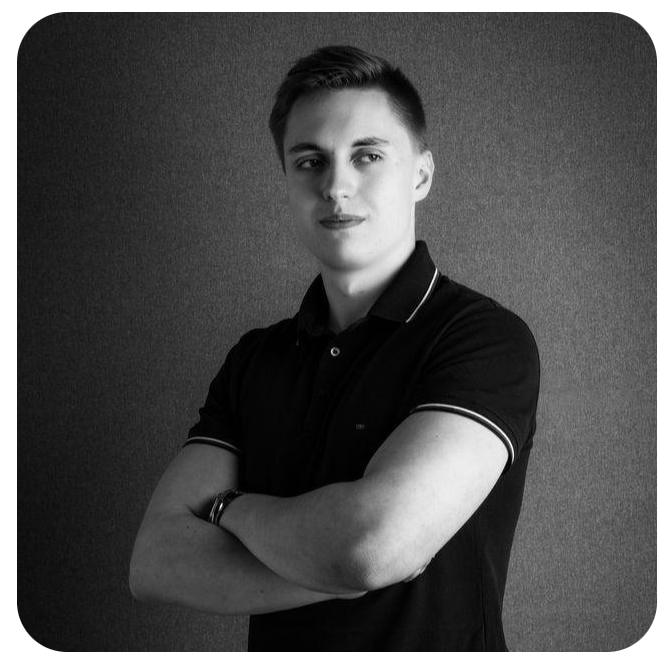
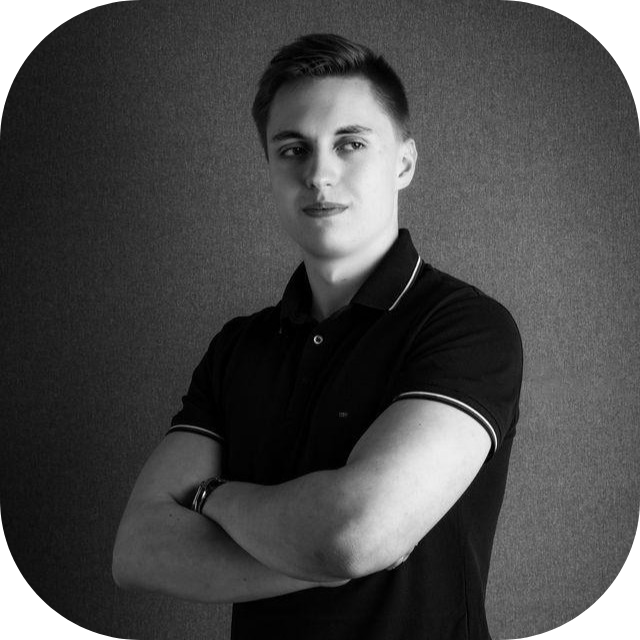
Updated CSS

diff --git a/index.html b/index.html
@@ -5,7 +5,7 @@
   <meta charset="UTF-8">
   <meta http-equiv="X-UA-Compatible" content="IE=edge">
   <meta name="viewport" content="width=device-width, initial-scale=1.0">
-  <title>vCard - Personal Portfolio</title>
+  <title>About - Elias Alexander Eder</title>
 
   <!--
     - favicon
@@ -74,7 +74,7 @@
             <div class="contact-info">
               <p class="contact-title">Email</p>
 
-              <a href="mailto:about_elias@mailbox.org" class="contact-link">about_elias@mailbox.org</a>
+              <a href="mailto:about-elias@mailbox.org" class="contact-link">about-elias@mailbox.org</a>
             </div>
 
           </li>
@@ -513,7 +513,7 @@
               <h4 class="h4 timeline-item-title">Deggendorf Institute of Technology</h4>
               <span>10 / 2023 – Present</span>
               <p class="timeline-text">
-                Cyber Security (B.Sc.), top of the class.
+                Cyber Security (B.Sc.) <br> Top of the class
               </p>
             </li>
       
@@ -521,7 +521,7 @@
               <h4 class="h4 timeline-item-title">Vocational School Passau</h4>
               <span>09 / 2022 – 07 / 2023</span>
               <p class="timeline-text">
-                IT Specialist for System Integration, top of the class, class representative.
+                IT Specialist for System Integration <br> Top of the class <br> Class representative
               </p>
             </li>
       
@@ -529,7 +529,7 @@
               <h4 class="h4 timeline-item-title">Technical High School Waldkirchen</h4>
               <span>09 / 2020 – 07 / 2022</span>
               <p class="timeline-text">
-                Major in Technology, top of the field.
+                Major in Technology <br> Top of the field
               </p>
             </li>
       
@@ -537,7 +537,7 @@
               <h4 class="h4 timeline-item-title">Secondary School Grafenau</h4>
               <span>09 / 2014 – 07 / 2020</span>
               <p class="timeline-text">
-                Major in Business, best student.
+                Major in Business <br> Best student
               </p>
             </li>
       
@@ -566,7 +566,7 @@
               <h4 class="h4 timeline-item-title">MAX STREICHER GmbH & Co. KG aA</h4>
               <span>09 / 2020 – Present</span>
               <p class="timeline-text">
-                Dual work-study program in IT.
+                Dual work-study program in IT 
               </p>
             </li>
       
@@ -590,7 +590,7 @@
               <h4 class="h4 timeline-item-title">AdA Certification</h4>
               <span>11 / 2024 – 12 / 2024</span>
               <p class="timeline-text">
-                Trainer certification from the HWK Niederbayern.
+                Trainer certification from the HWK Niederbayern
               </p>
             </li>
       
@@ -598,7 +598,7 @@
               <h4 class="h4 timeline-item-title">Market Mavens</h4>
               <span>10 / 2024 – Present</span>
               <p class="timeline-text">
-                Member of DIT's stock exchange association.
+                Member of DIT's stock exchange association
               </p>
             </li>
       
@@ -606,7 +606,7 @@
               <h4 class="h4 timeline-item-title">Freshman Mentor</h4>
               <span>10 / 2024 – Present</span>
               <p class="timeline-text">
-                Supporting new students at DIT.
+                Supporting new students at DIT
               </p>
             </li>
       
@@ -614,7 +614,7 @@
               <h4 class="h4 timeline-item-title">CS50X – Computer Science</h4>
               <span>06 / 2024</span>
               <p class="timeline-text">
-                Online course at Harvard University.
+                Online course at Harvard University
               </p>
             </li>
       
@@ -622,7 +622,7 @@
               <h4 class="h4 timeline-item-title">CERN Spring Campus</h4>
               <span>03 / 2024</span>
               <p class="timeline-text">
-                Certificate from CERN and DIT.
+                Participation in the CERN Spring Campus at DIT
               </p>
             </li>
       

diff --git a/assets/css/style.css b/assets/css/style.css
@@ -1336,9 +1336,12 @@ textarea.form-input::-webkit-resizer { display: none; }
 
   .sidebar-info { gap: 25px; }
 
-  .avatar-box { border-radius: 11px; }
+  .avatar-box { border-radius: 35px; }
 
-  .avatar-box img { width: 120px; }
+  .avatar-box img {
+    width: 120px;
+    padding: 3px;
+   }
 
   .info-content .name { margin-bottom: 15px; }
 
